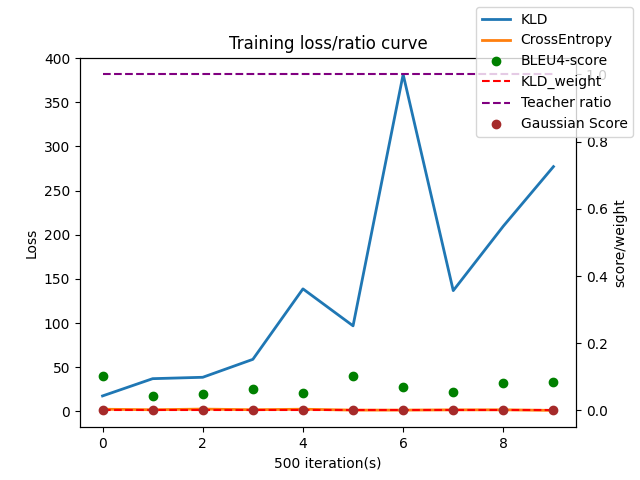
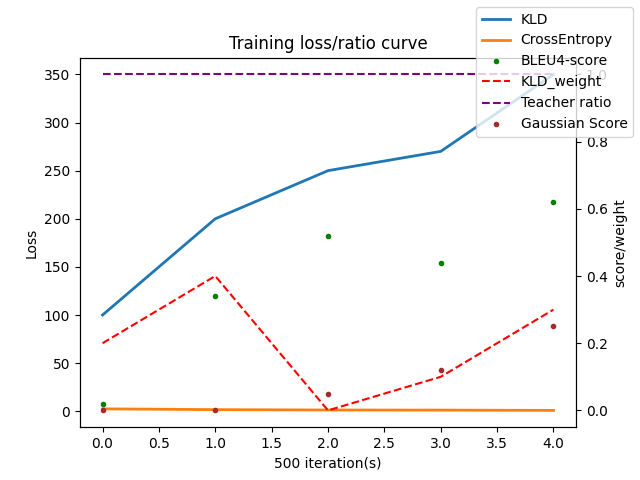
fix the bug of recorder and shrink the dot size in figure

diff --git a/graph.py b/graph.py
@@ -24,10 +24,10 @@ def draw_figure(points: int, data_dic: dict):
 
     ax2 = ax1.twinx()
     ax2.set_ylabel('score/weight')
-    ax2.plot(x_axis, data_dic['bleu'], 'ro', label='BLEU4-score', color='green')
+    ax2.plot(x_axis, data_dic['bleu'], 'ro', markersize=3, label='BLEU4-score', color='green')
     ax2.plot(x_axis, data_dic['kld_weight'], label='KLD_weight', color='red', linestyle='--')
     ax2.plot(x_axis, data_dic['tf_ratio'], label='Teacher ratio', color='purple', linestyle='--')
-    ax2.plot(x_axis, data_dic['gau'], 'ro', label='Gaussian Score', color='brown')
+    ax2.plot(x_axis, data_dic['gau'], 'ro', markersize=3, label='Gaussian Score', color='brown')
     ax2.tick_params(axis='y')
 
     # fig.tight_layout()
@@ -45,6 +45,8 @@ if __name__ == "__main__":
         'tf_ratio': [1, 1, 1, 1, 1],
         'gau': [0, 0, 0.05, 0.12, 0.25]
     }
+    # file = open('record', 'rb')
+    # dic = pickle.load(file)
     draw_figure(5, dic)
 
     # f = open('test', 'wb')

diff --git a/sample.py b/sample.py
@@ -115,7 +115,7 @@ def train(input_tensor, target_tensor, types, encoder, decoder, encoder_optimize
     encoder_optimizer.step()
     decoder_optimizer.step()
 
-    return cross_entropy_lose.item() / target_length, kld, loss.item() / target_length
+    return cross_entropy_lose.item() / target_length, kld.item(), loss.item() / target_length
 
 
 def asMinutes(s):
